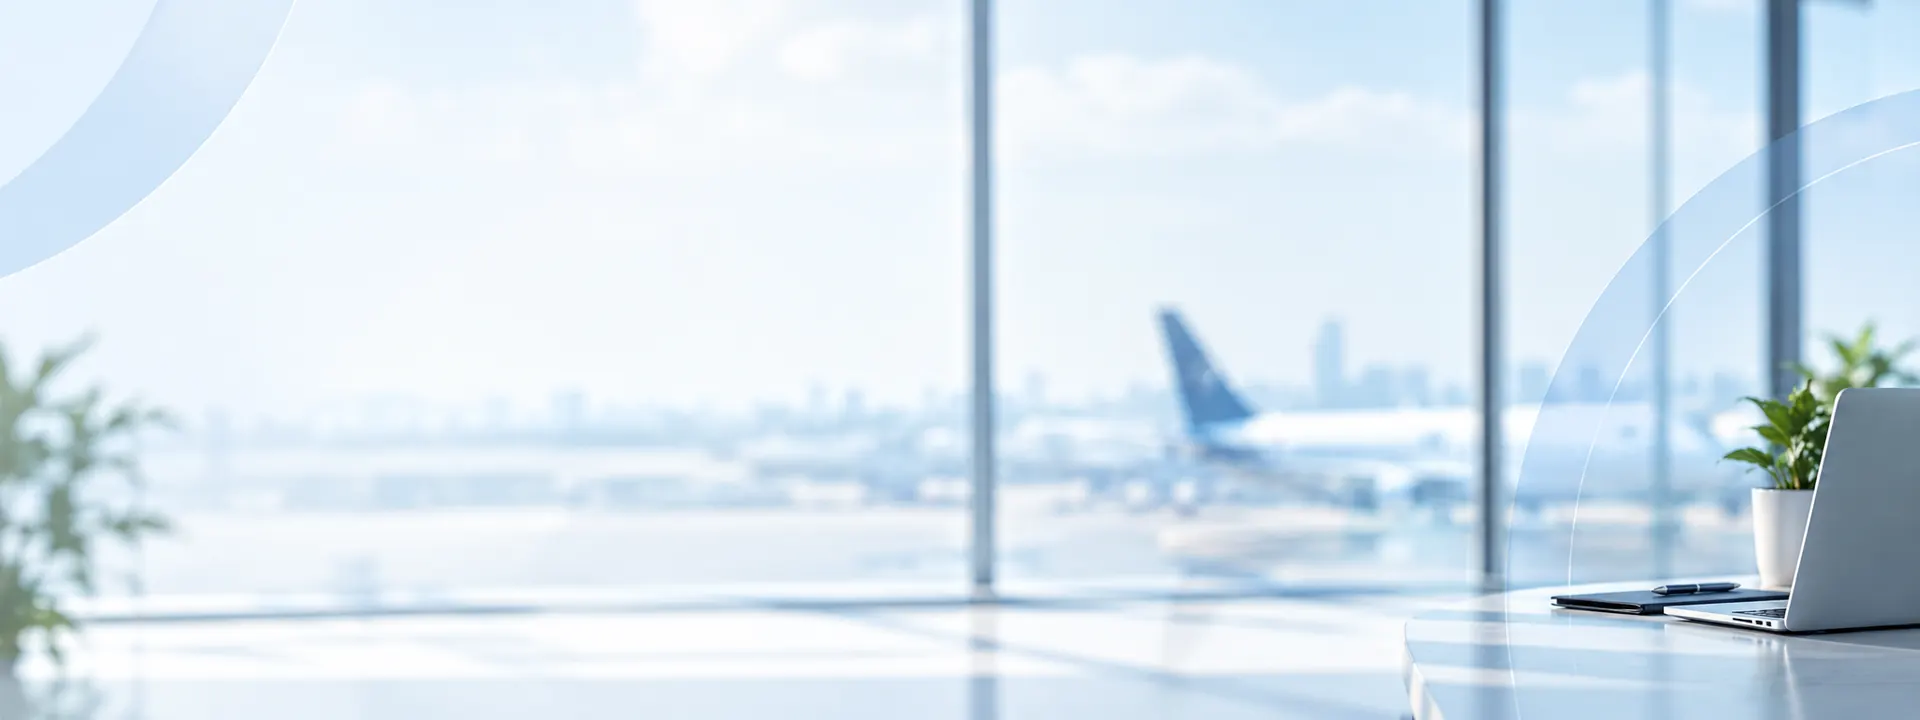
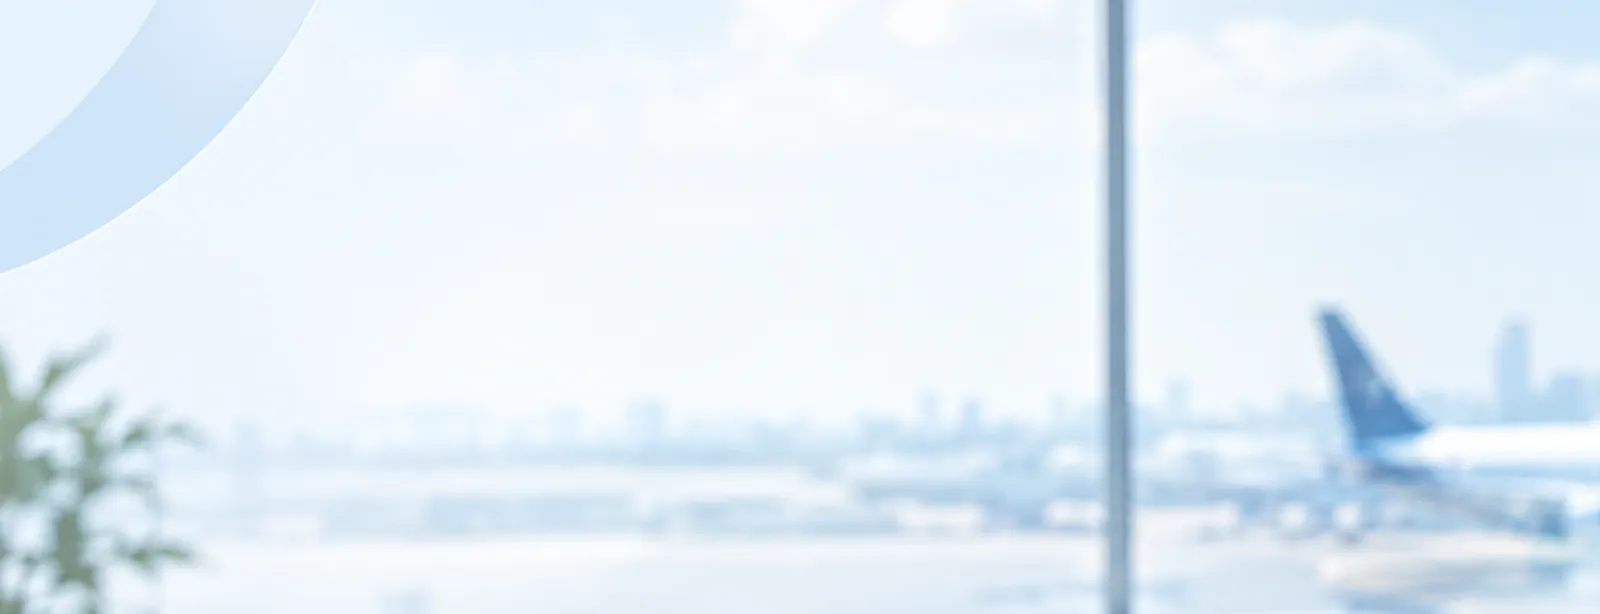
Hero: crop laptop from background, transparent-background portrait

diff --git a/home.css b/home.css
@@ -57,7 +57,12 @@
 @media(max-width:600px){.home .logo [data-profile-name]{min-width:0;flex:0 1 auto}.home .nav>*{flex-shrink:0}.home .nav>.logo{flex-shrink:1}}
 @media(max-width:380px){.home .logo-div{display:none}.home .logo [data-profile-name]{font-size:11px}.home .header .btn{padding:8px 9px;font-size:11px}.home .nav{gap:6px}}
 @media(max-width:340px){.home .logo [data-profile-name]{font-size:9.5px}.home .logo-mark{height:32px;width:auto}}
-/* Hero banner: airport photo background, framed portrait */
-.h-hero{background:linear-gradient(90deg,rgba(255,255,255,.6) 0%,rgba(255,255,255,.2) 48%,rgba(255,255,255,0) 70%),url("./hero-bg.webp") center/cover no-repeat}
-.h-hero .h-grid{padding:56px 0 64px}
-@media(max-width:900px){.h-hero{background:linear-gradient(180deg,rgba(255,255,255,.62) 0%,rgba(255,255,255,.25) 60%,rgba(255,255,255,0) 100%),url("./hero-bg.webp") 65% center/cover no-repeat}.h-hero .h-grid{padding:40px 0 56px}}
+/* Hero banner: airport photo background (laptop cropped out) + background-free portrait */
+.h-hero{background:linear-gradient(90deg,rgba(255,255,255,.6) 0%,rgba(255,255,255,.2) 48%,rgba(255,255,255,0) 70%),url("./hero-bg.webp") center/cover no-repeat;min-height:500px;display:flex}
+.h-hero .h-grid{width:min(1180px,calc(100% - 36px));margin:auto;padding:56px 0 0;align-items:end}
+.h-hero .h-grid>div:first-child{align-self:center;padding-bottom:56px}
+.h-visual{width:auto;align-self:end;justify-self:end}
+.h-frame{background:none;border:0;box-shadow:none;padding:0;border-radius:0;display:block}
+.h-frame:before{display:none}
+.h-frame img{width:auto;height:min(470px,62vw);aspect-ratio:auto;object-fit:contain;object-position:bottom;border-radius:0;max-width:100%;filter:drop-shadow(0 10px 24px rgba(13,42,79,.18))}
+@media(max-width:900px){.h-hero{min-height:0;background:linear-gradient(180deg,rgba(255,255,255,.62) 0%,rgba(255,255,255,.25) 60%,rgba(255,255,255,0) 100%),url("./hero-bg.webp") 65% center/cover no-repeat}.h-hero .h-grid{padding:36px 0 0}.h-hero .h-grid>div:first-child{padding-bottom:8px}.h-visual{justify-self:center;margin-top:0}.h-frame img{height:min(380px,92vw)}}

diff --git a/index.html b/index.html
@@ -76,7 +76,7 @@
 </div>
 </div>
 <div class="h-visual">
-<figure class="h-frame" style="margin:0"><img src="./profile-portrait.jpg" alt="Portrait of Md Sarwar Osman Sagar"></figure>
+<figure class="h-frame" style="margin:0"><img src="./profile-cutout.webp" alt="Portrait of Md Sarwar Osman Sagar"></figure>
 </div>
 </div></section>
 
